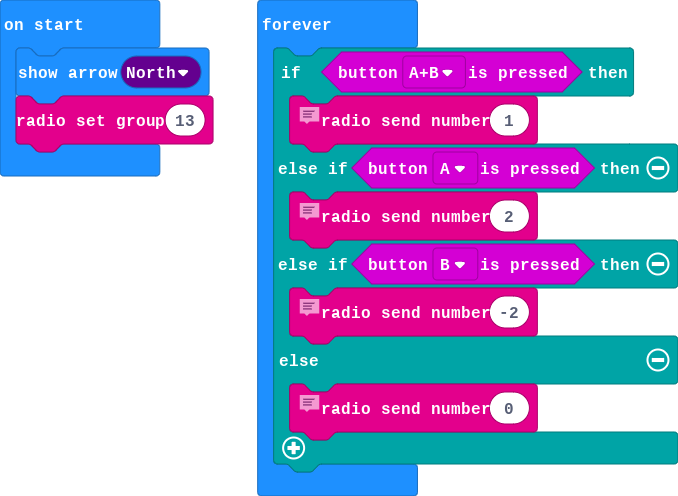
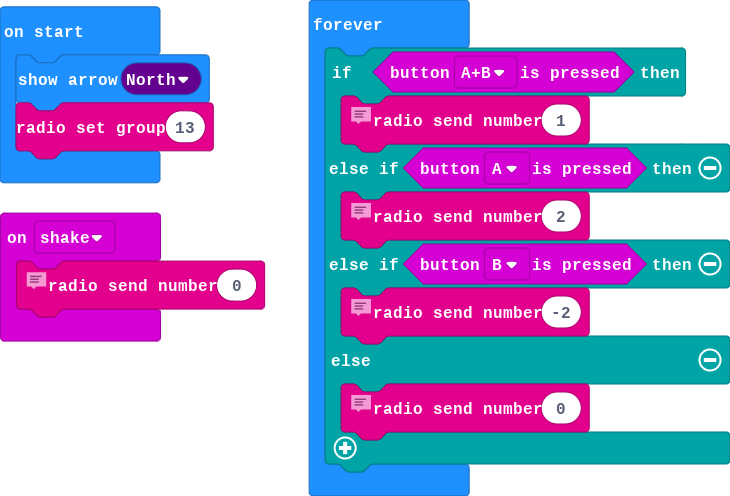
Update main.blocks, main.ts

diff --git a/main.ts b/main.ts
@@ -1,3 +1,7 @@
+input.onGesture(Gesture.Shake, function () {
+    // 0=Stop
+    radio.sendNumber(0)
+})
 basic.showArrow(ArrowNames.North)
 radio.setGroup(13)
 basic.forever(function () {
